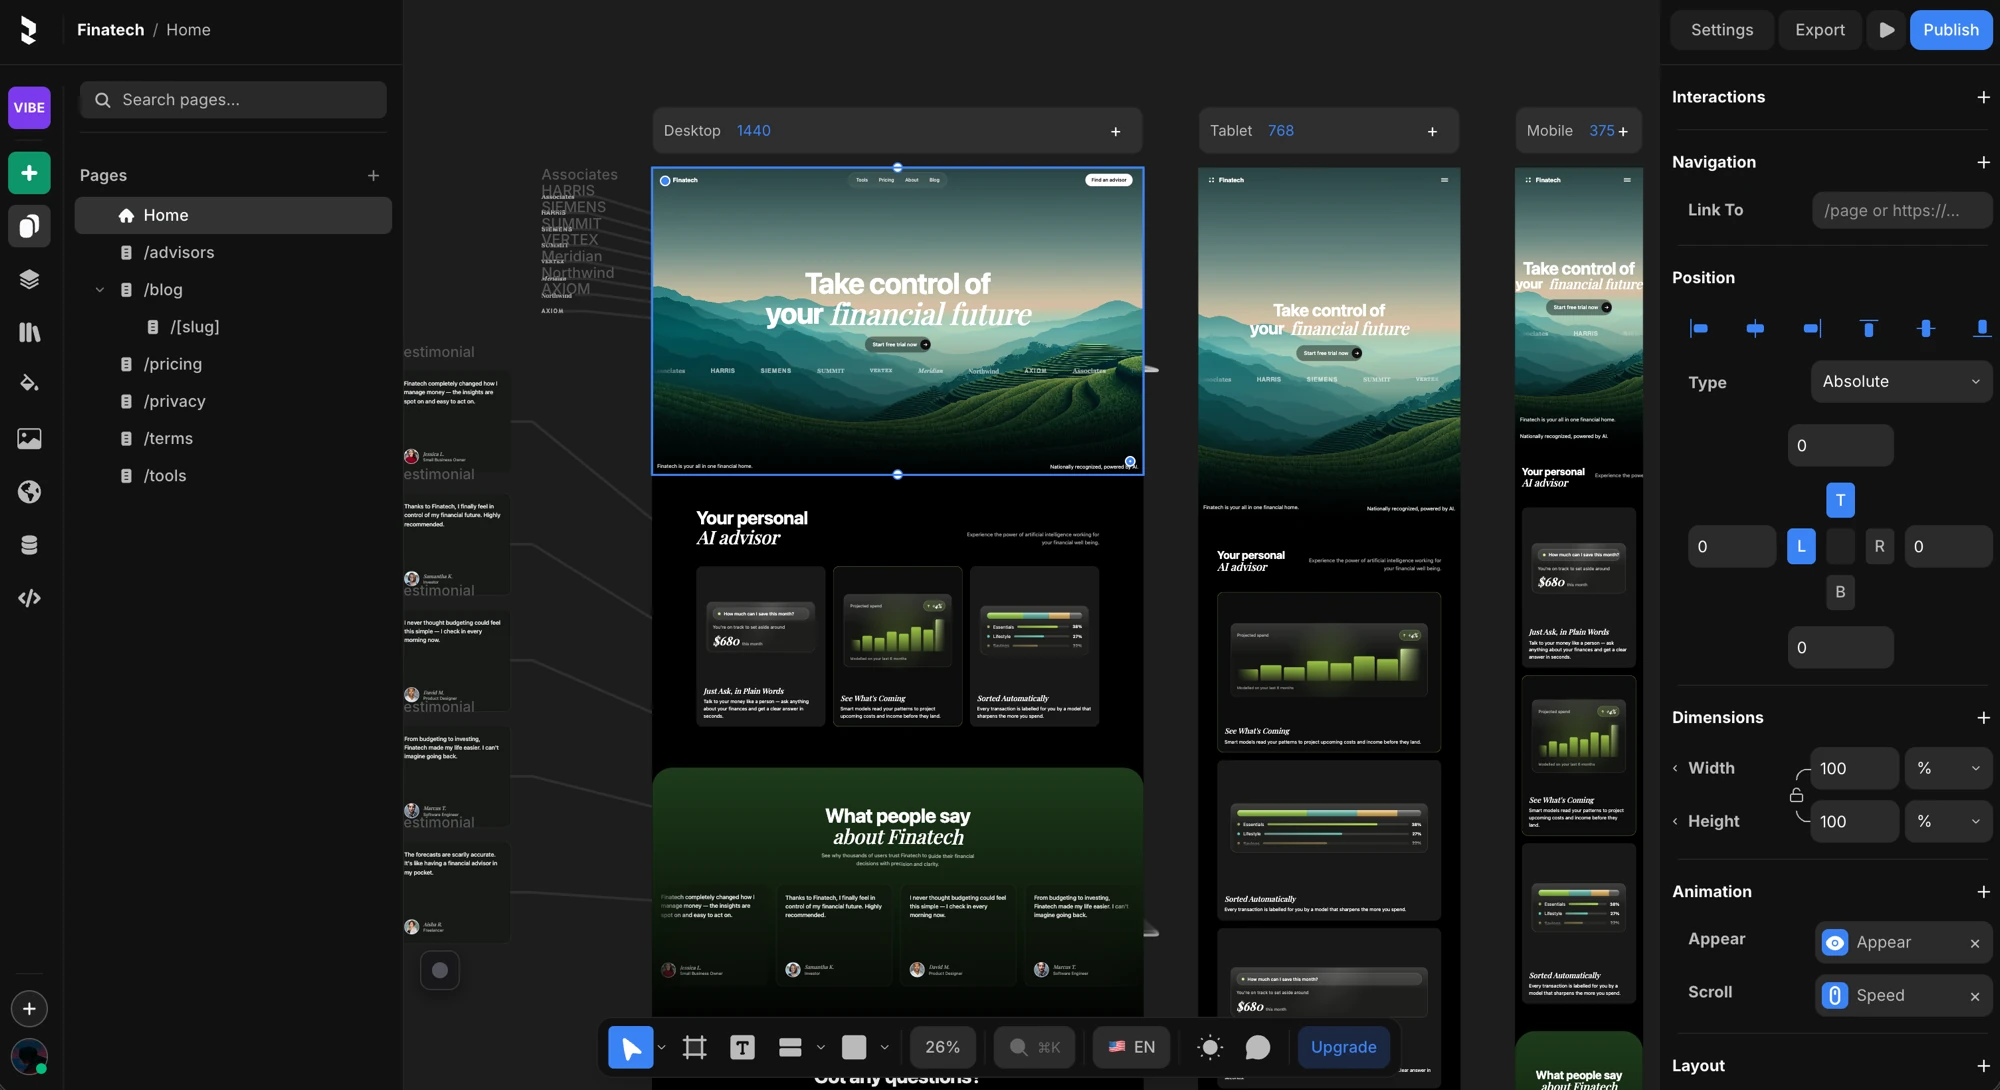
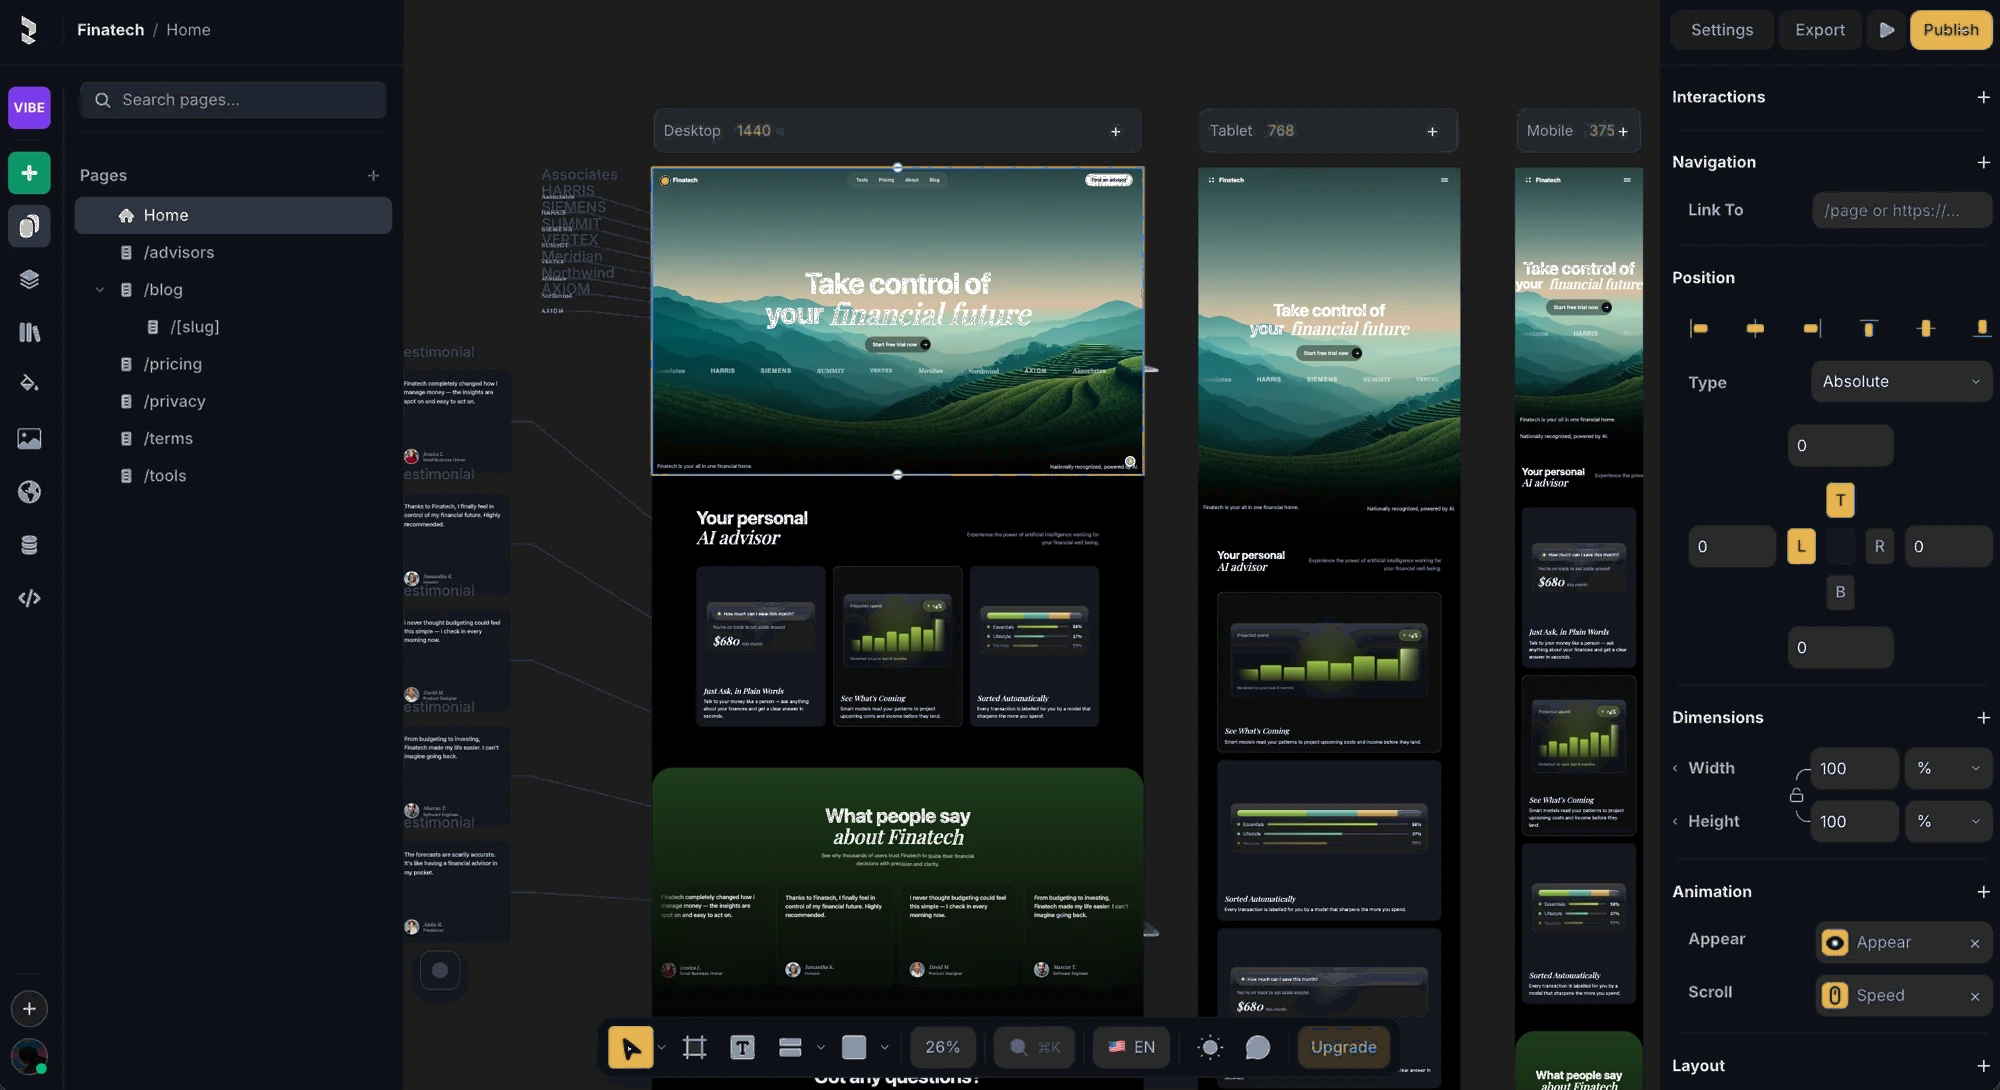
feat: update design

diff --git a/src/styles/globals.css b/src/styles/globals.css
@@ -17,38 +17,29 @@
 
 @layer theme {
   :root {
-    /* Surfaces — ayu (https://ayu-theme.dev), light variant.
-       Values come from the palette's own themes/light.yaml: surface.sunk /
-       base / lift, ui.panel.bg, editor.fg, ui.fg.
+    /* SURFACES — the original neutral ladder, unchanged.
+       An earlier pass moved every surface onto ayu's blue-tinted neutrals to
+       go with the gold accent. It read as a blue cast across the whole app:
+       tinting the CHROME is not what makes the palette distinctive, and it
+       fought the neutral canvas the user's artwork sits on. Reverted.
 
-       Previously Tailwind slate (#f1f5f9, #e2e8f0, #94a3b8) with a blue
-       accent — the palette every Tailwind-era tool ships, and a large part of
-       why the editor read as a clone. ayu keeps a cool-neutral base but pairs
-       it with GOLD, which is what makes the combination distinctive.
-
-       Each surface is a deliberate ELEVATION step: canvas < panel < control <
-       hover < active, so a control is always visibly distinct from what it
-       sits on. ayu's own steps are flatter than this (it is designed for a
-       code editor, not a dense properties panel), so the control ladder is
-       widened here while keeping ayu's hues. */
-    /* Neutral grey, restored from the original palette and deliberately NOT
-       tinted with the rest of the ayu ladder. This is the one surface that
-       sits behind the USER'S artwork, so it has to stay chromatically neutral
-       — a tinted backdrop competes with whatever they are designing. */
+       What the redesign actually keeps is the ACCENT pair below — gold brand,
+       purple component-mode — on top of neutral greys. That is the part
+       carrying the identity; the neutrals are supposed to disappear. */
+    /* This surface sits behind the USER'S artwork, so it stays chromatically
+       neutral — a tinted backdrop competes with whatever they are designing. */
     --bg-canvas: #eeeeee;
     --bg-surface: #ffffff;
-    --bg-toolbar: #fafafa;
+    --bg-toolbar: #f8f9fa;
     --bg-panel: #ffffff;
-    --bg-hover: #f1f3f5;
-    --bg-active: #e4e8eb;
-    --bg-tertiary: #f8f9fa;
+    --bg-hover: #f1f1f1;
+    --bg-active: #e6e6e6;
+    --bg-tertiary: #f1f5f9;
     /* AddVariantUI placeholder cards (the "Variant" / "Hover / Pressed"
        affordances next to a selected component variant). */
     /* CANVAS-RESIDENT CHROME — viewport headers, Add-Variant placeholders.
-       Kept on the ORIGINAL neutral greys, not the ayu ladder: these sit on
-       the CANVAS beside the user's artwork, so like --bg-canvas they stay
-       untinted. The ayu control tones are blue-tinted, which reads cold and
-       out of place against the neutral canvas grey. */
+       These sit on the CANVAS beside the user's artwork, so like --bg-canvas
+       they track the neutral greys rather than any accent tone. */
     --canvas-chrome-bg: #ffffff;
     --canvas-chrome-border: #e2e2e2;
     --variant-card-bg: #ffffff;
@@ -56,23 +47,20 @@
     /* The filled circle behind the `+` glyph (PlusBadgeIcon). */
     --variant-card-badge: #e2e8f0;
 
-    /* Text — ayu light: editor.fg for primary, ui.fg for secondary. */
-    --text-primary: #5c6166;
-    --text-secondary: #828e9f;
-    --text-disabled: #b4bcc6;
-    --text-tertiary: #a0a9b5;
-    --text-muted: #a0a9b5;
+    --text-primary: #1e293b;
+    --text-secondary: #5b5b5b;
+    --text-disabled: #94a3b8;
+    --text-tertiary: #999999;
+    --text-muted: #b0b0b0;
 
-    /* Accent — ayu gold.
-       Warm and high-chroma. The earlier clay was warm but LOW chroma, which is
-       exactly where brown lives; gold keeps the saturation up so it reads as a
-       colour rather than as dirt.
+    /* ACCENT — gold (from the ayu palette), the one piece of the redesign that
+       carries the identity. Warm and HIGH-chroma: the earlier clay was warm but
+       low chroma, which is exactly where brown lives.
 
-       ayu's own light accent is #F29718, but that only reaches 2.3:1 on white
-       — fine as a fill, unreadable as text, and `--accent` is used for both
-       across the app. So light runs a deeper gold that clears AA in both
-       directions (4.9:1 as text on white, and white on it). --accent-strong
-       keeps ayu's brighter tone for CTAs and the active tool. */
+       Note --accent is used as both a fill and a text colour across the app, so
+       it has to clear AA in both directions. --accent-text carries the deeper
+       tone for the text sites; --accent-strong keeps the brighter one for CTAs
+       and the active tool. */
     /* IDENTICAL to dark. A brand accent that changes hue between themes stops
        being a brand colour, and the dark gold read as muddy on white. Gold is
        a FILL colour here (184 fill sites vs 57 text sites) and it fills the
@@ -115,42 +103,42 @@
     --selection: #035bd6;
 
     /* Borders */
-    --border-light: #f0f2f4;
-    --border-default: #cdd3d9;
+    --border-light: #f0f0f0;
+    --border-default: #cbd5e1;
     /* Focus is chrome, so it follows the brand accent — not the canvas blue. */
     --border-focus: #e6b450;
 
     /* Controls */
     /* Properties-panel controls. On light these must sit BELOW the white
-       panel (a control lighter than its container has no edge), so the ladder
-       inverts here: panel #ffffff -> control #f2eee9 -> hover -> active. */
-    --control-bg: #f1f3f5;
-    --control-bg-hover: #e4e8eb;
-    --control-bg-active: #d6dbe0;
-    --control-border: #e4e8eb;
-    --control-border-hover: #c8cfd6;
+       panel — a control lighter than its container has no edge — so the ladder
+       inverts here: panel #ffffff -> control -> hover -> active. */
+    --control-bg: #f8fafc;
+    --control-bg-hover: #f1f5f9;
+    --control-bg-active: #e2e8f0;
+    --control-border: #e2e8f0;
+    --control-border-hover: #cbd5e1;
     --grid-line: rgba(205, 211, 217, 0.4);
     /* Segmented controls (No/Yes, Flex/Grid, …). Two levels, and they must
        come from the same ladder as every other control or the segment reads
        as a different material: --choice-bg is the recessed TRACK, and
        --segmented-bg the RAISED active segment. These were flat greys
        (#e8e8e8 / white, #1a1a1a / #333333) left over from the old palette. */
-    --choice-bg: #e4e8eb;
+    --choice-bg: #e8e8e8;
     --segmented-bg: #ffffff;
-    --slider-bg: #e4e8eb;
+    --slider-bg: #e2e8f0;
     /* Border ring around the white slider thumb. Dark on the light
        theme (the white thumb has no contrast against a light panel
        otherwise); a translucent white ring on the dark theme. */
     --slider-thumb-border: rgba(0, 0, 0, 0.2);
 
     /* Buttons */
-    /* Primary buttons take --accent-strong, not --accent: a CTA is one of the
-       two things allowed to shout (the other is the active tool). The calm
-       clay is for persistent chrome. */
+    /* Primary buttons track --accent (with --accent-strong reserved for the
+       loudest surfaces: the active tool). Both take the same near-black label
+       — see --accent-fg. */
     --btn-primary-bg: #e6b450;
     --btn-primary-hover: #f2c86e;
-    --btn-secondary-bg: #f1f3f5;
-    --btn-secondary-hover: #e4e8eb;
+    --btn-secondary-bg: #f3f3f3;
+    --btn-secondary-hover: #e2e8f0;
     /* Translucent "subtle fill" token — used by secondary buttons,
        breadcrumb pills, toggle segments, etc. Mirrored per theme: 5%
        black on light, 6% white on dark, so it reads on any surface.
@@ -215,12 +203,12 @@
        brightest thing on screen in both themes. */
     /* Neutral grey — see the :root note. Not the ayu blue-black. */
     --bg-canvas: #1d1d1d;
-    --bg-surface: #0d1017;
-    --bg-toolbar: #0d1017;
-    --bg-panel: #0d1017;
-    --bg-hover: #1b202b;
-    --bg-active: #2e3542;
-    --bg-tertiary: #141821;
+    --bg-surface: #111111;
+    --bg-toolbar: #111111;
+    --bg-panel: #111111;
+    --bg-hover: #282828a3;
+    --bg-active: #4a4a4a;
+    --bg-tertiary: #1a1a1a;
     /* Neutral greys — see the :root note. Canvas-adjacent, so untinted. */
     --canvas-chrome-bg: #2a2a2a;
     --canvas-chrome-border: #333333;
@@ -228,11 +216,11 @@
     --variant-card-bg-hover: #383838;
     --variant-card-badge: rgba(255, 255, 255, 0.6);
 
-    --text-primary: #bfbdb6;
-    --text-secondary: #8a94a6;
-    --text-disabled: #4a5266;
-    --text-tertiary: #5a6378;
-    --text-muted: #5a6378;
+    --text-primary: #f8fafc;
+    --text-secondary: #bababa;
+    --text-disabled: #848484;
+    --text-tertiary: #666666;
+    --text-muted: #848484;
 
     /* Clay reads 4.7:1 on the #141211 chrome — comfortably legible without
        shouting. White on it only reaches 4.0, so --accent-fg is near-black:
@@ -268,8 +256,8 @@
        stroke holds up against the darker canvas (#1d1d1d). */
     --selection: #3388ff;
 
-    --border-light: #141821;
-    --border-default: #2a3140;
+    --border-light: #222222;
+    --border-default: #414243;
     /* Chrome affordance → brand accent, not the canvas blue. */
     --border-focus: #e6b450;
 
@@ -279,22 +267,22 @@
        control-bg-hover and control-border-hover were Tailwind slate
        (#334155 / #475569): cool blue-greys that visibly fought the warm
        accent the moment anything was hovered. */
-    --control-bg: #1a1f2a;
-    --control-bg-hover: #242a38;
-    --control-bg-active: #2e3542;
-    --control-border: #1f2530;
-    --control-border-hover: #313846;
+    --control-bg: rgba(50, 50, 50, 0.8);
+    --control-bg-hover: #334155;
+    --control-bg-active: #45464b;
+    --control-border: #292929;
+    --control-border-hover: #475569;
     --grid-line: rgba(31, 37, 48, 0.8);
     /* See the :root note — recessed track, raised active segment. */
-    --choice-bg: #141821;
-    --segmented-bg: #2e3542;
-    --slider-bg: #242a38;
+    --choice-bg: #1a1a1a;
+    --segmented-bg: #333333;
+    --slider-bg: #333333;
     --slider-thumb-border: rgba(191, 189, 182, 0.5);
 
     --btn-primary-bg: #e6b450;
     --btn-primary-hover: #f2c86e;
-    --btn-secondary-bg: #1b202b;
-    --btn-secondary-hover: #2e3542;
+    --btn-secondary-bg: #333333;
+    --btn-secondary-hover: #475569;
     /* Dark value = the old hard-coded fallback, so dark mode is
        unchanged; only light mode gains the (previously missing) fill. */
     --button-secondary-bg: rgba(255, 255, 255, 0.06);
